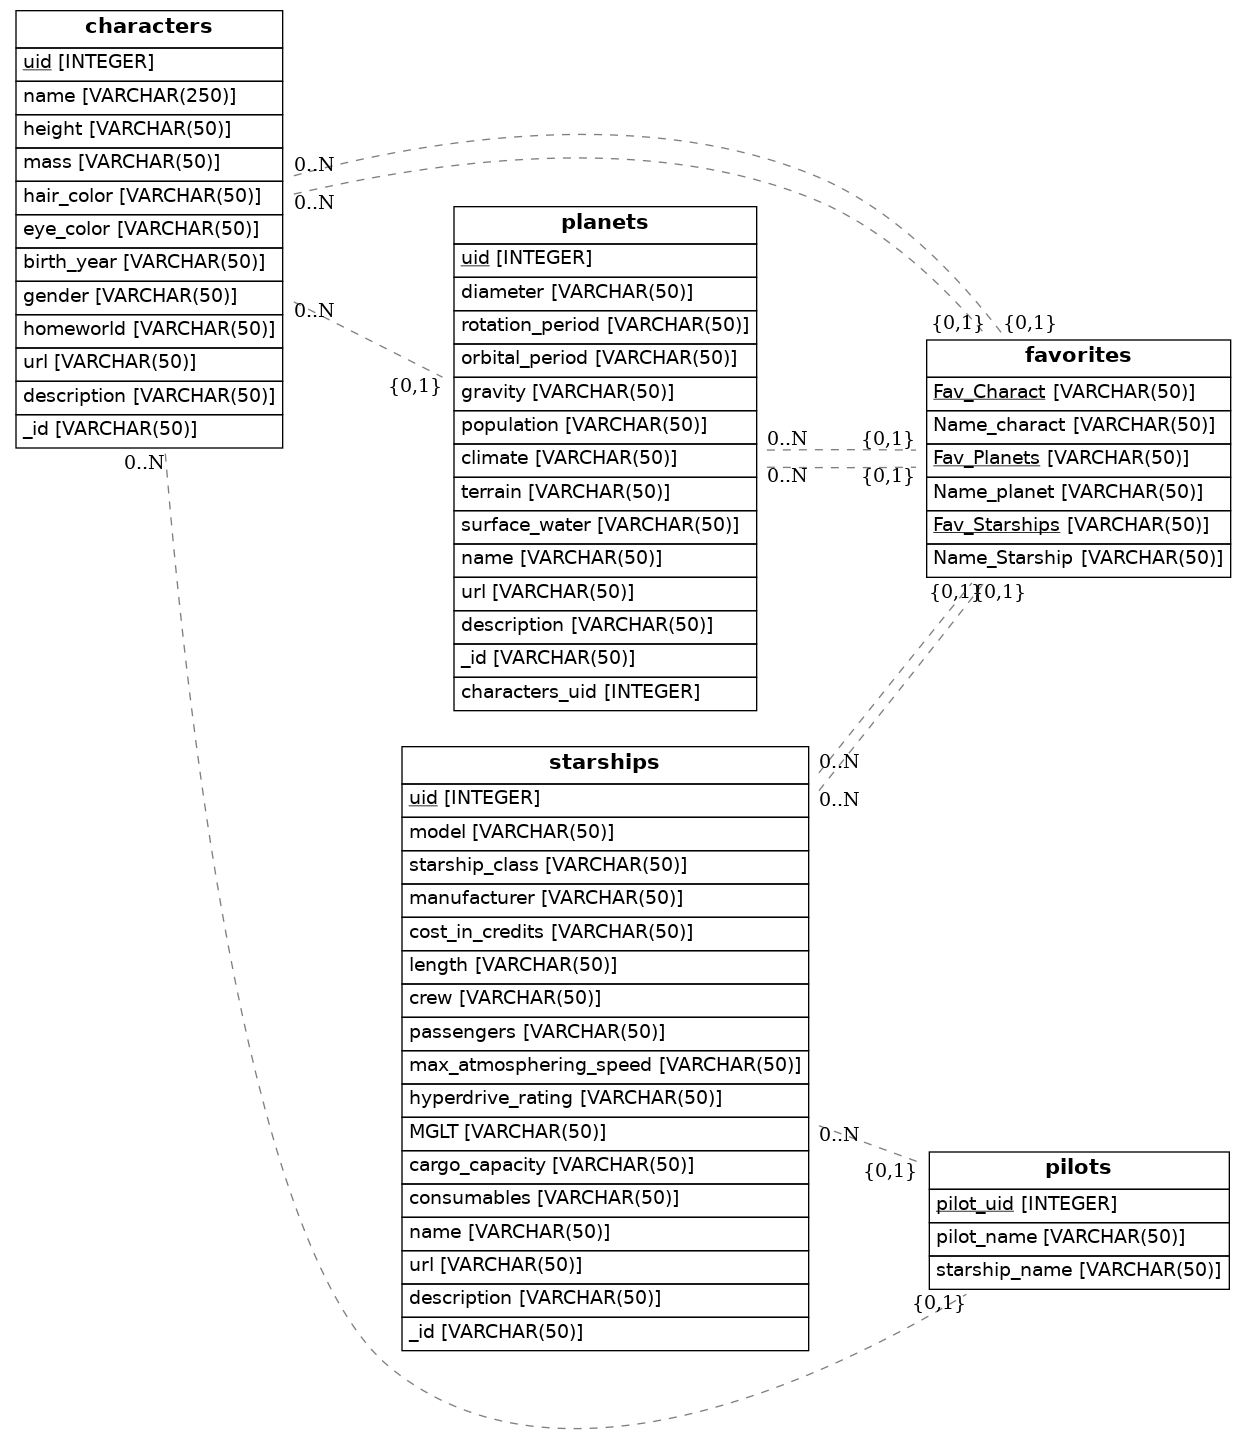
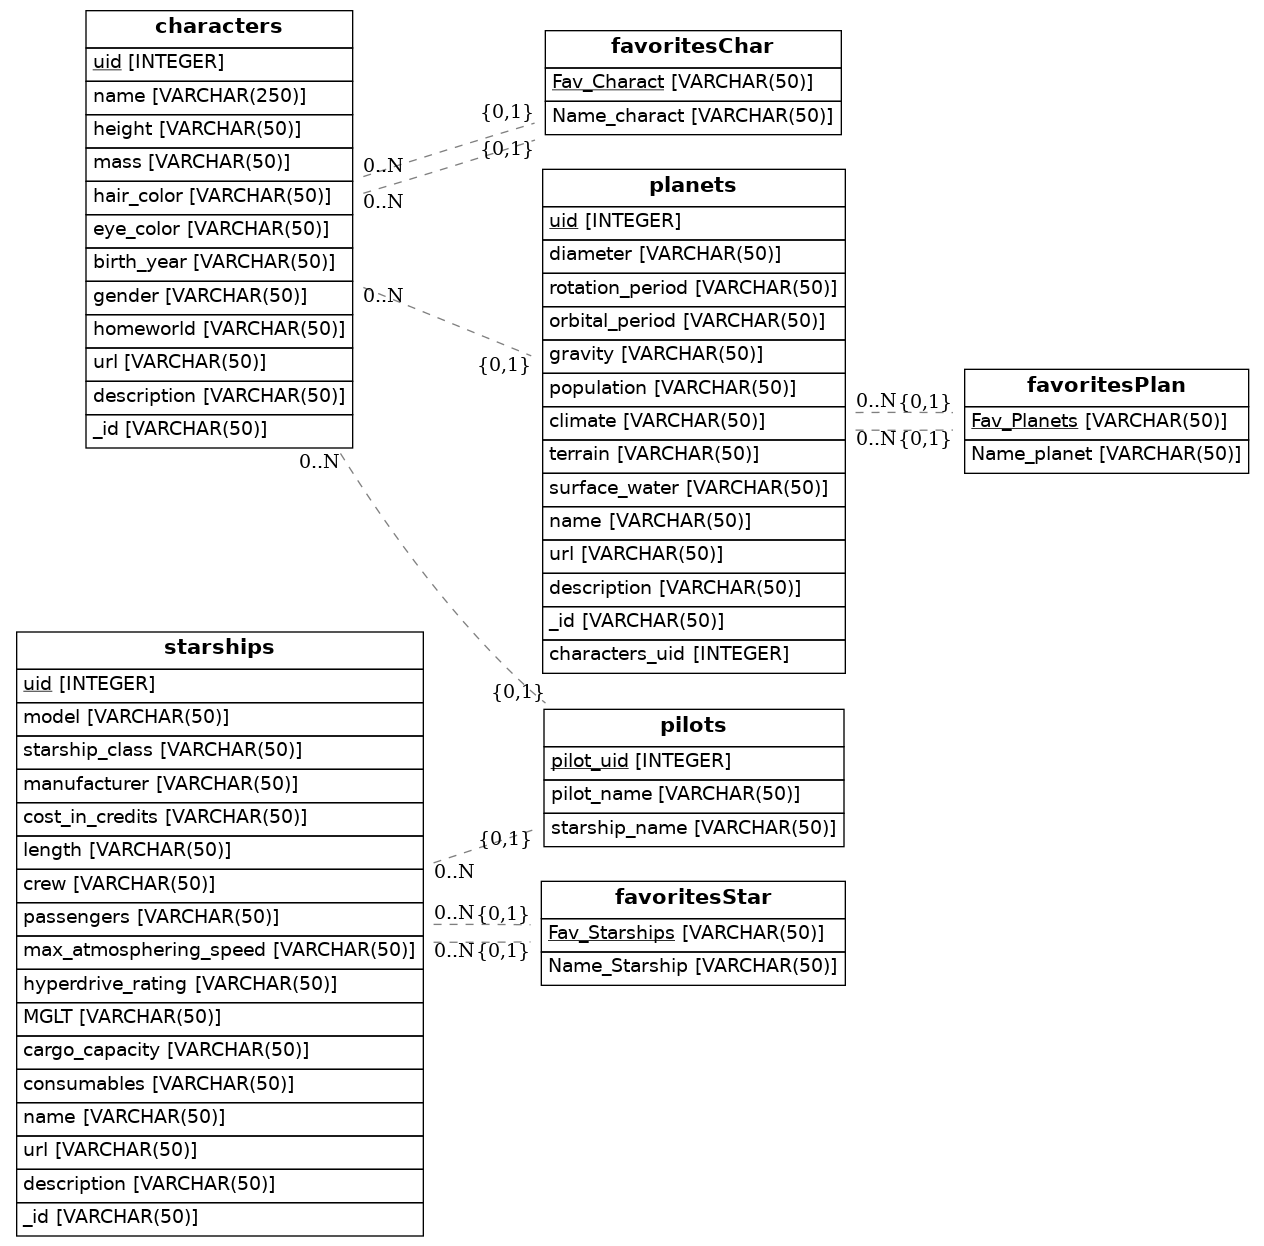
4th update

diff --git a/src/models.py b/src/models.py
@@ -69,14 +69,20 @@ class Pilots(Base):
     starship_name = Column(String(50), ForeignKey('starships.id'))
     starships = relationship(Starships)
 
-class Favorites(Base):
-    __tablename__ = "favorites"
+class FavoritesChar(Base):
+    __tablename__ = "favoritesChar"
     Fav_Charact = Column(String(50), ForeignKey('characters.id'), primary_key=True)
     Name_charact = Column(String(50), ForeignKey('characters.name'))
     characters = relationship(Characters)
+
+class FavoritesPlan(Base):
+    __tablename__ = "favoritesPlan"
     Fav_Planets = Column(String(50), ForeignKey('planets.id'), primary_key=True)
     Name_planet = Column(String(50), ForeignKey('planets.name'))
     planets = relationship(Planets)
+
+class FavoritesStar(Base):
+    __tablename__ = "favoritesStar"
     Fav_Starships = Column(String(50), ForeignKey('starships.id'), primary_key=True)
     Name_Starship = Column(String(50), ForeignKey('starships.name'))
     starships = relationship(Starships)
